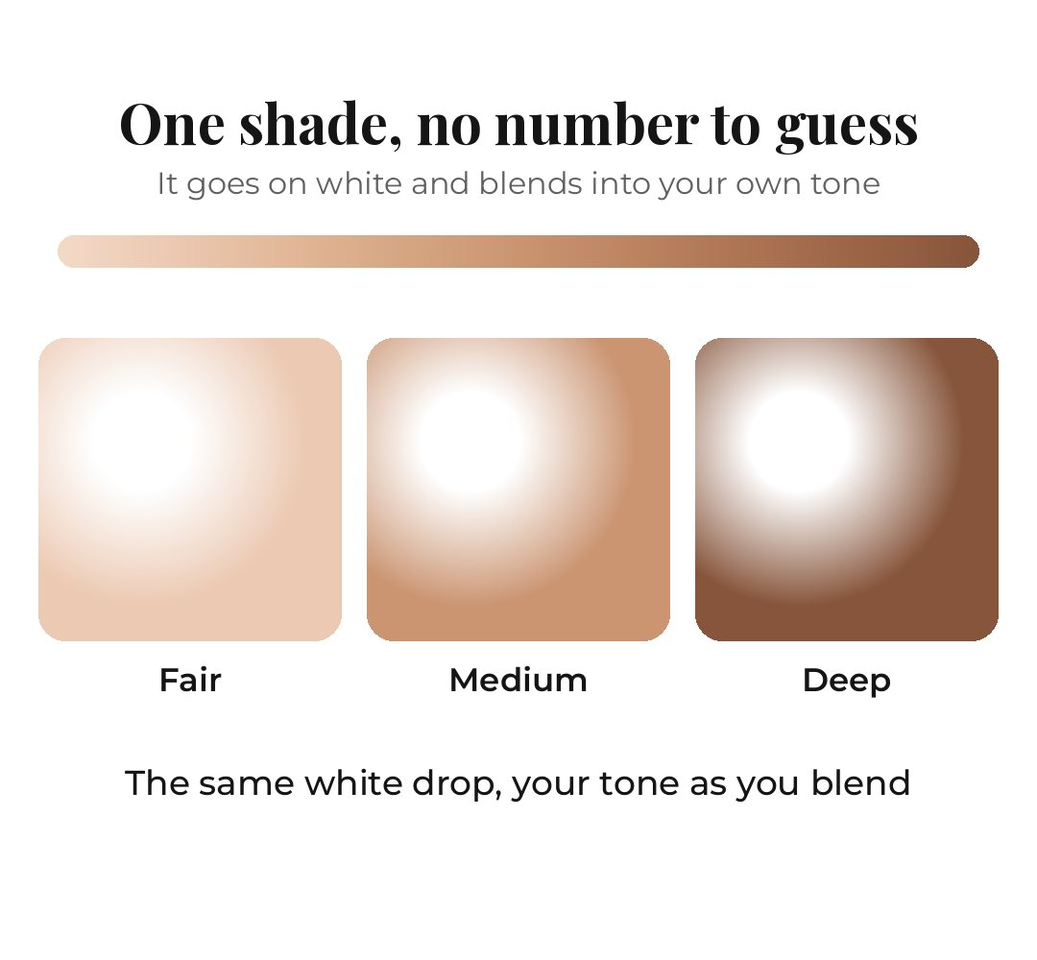
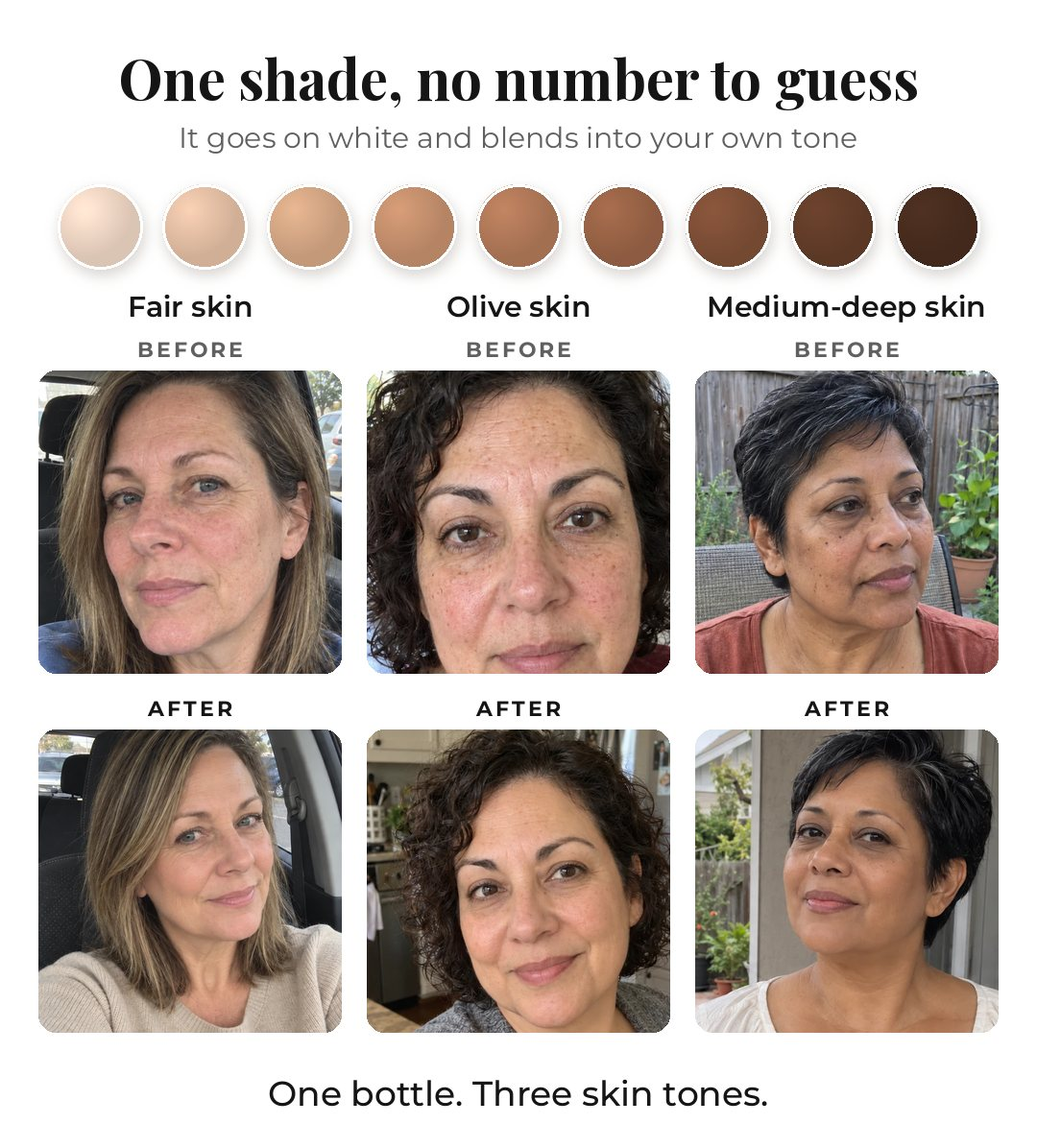
Sales page: the shade panel shows three women's before and after; each pair carries a buyer's review
one_shade(): a fair-to-deep swatch row, then the owner's three pairs (fair, olive, medium-deep) as Before over After,
square on the face (pair_halves() shared with split_pair, its output unchanged); the shade section moves up beside
the comparison so the same faces are not shown twice in a row. Each before/after card gets stars and a real
review from our earlier store by a buyer on the same concern, word for word, with her own photo and name.

Claude-Session: https://claude.ai/code/session_01DD3dpN8XTMfDVHXy9eWksc

diff --git a/skinofab-theme/templates/pages/page.adaptive-foundation-offer.html b/skinofab-theme/templates/pages/page.adaptive-foundation-offer.html
@@ -38,7 +38,7 @@
   <link rel="preload" as="image" href="{% endverbatim %}{{ 'sfa/sfa-wow-448847.jpg'|asset_url }}{% verbatim %}" fetchpriority="high">
   <link href="https://fonts.googleapis.com/css2?family=Jost:wght@400;500;600;700&family=Playfair+Display:ital,wght@0,600;0,700;1,600&display=swap" rel="stylesheet">
   <link rel="stylesheet" href="{% endverbatim %}{{ 'sfa/sfa-sf-funnel-cac564.css'|asset_url }}{% verbatim %}">
-  <link rel="stylesheet" href="{% endverbatim %}{{ 'sfa/sfa-sf-apf-1bb519.css'|asset_url }}{% verbatim %}">
+  <link rel="stylesheet" href="{% endverbatim %}{{ 'sfa/sfa-sf-apf-f8ff35.css'|asset_url }}{% verbatim %}">
   
 
   
@@ -245,6 +245,19 @@
   </section>
 
   
+  <section class="sf-sec sf-sec--cream" id="s11-shade">
+    <div class="sf-sec__in sf-two sf-two--top">
+      <img src="{% endverbatim %}{{ 'sfa/sfa-one-shade-f2b969.jpg'|asset_url }}{% verbatim %}" alt="One shade, no number to guess: a row of skin-tone swatches from fair to deep, then three women past 45 with fair, olive and medium-deep skin, each before (bare skin with spots, redness and uneven tone) and after (the foundation on, her tone even)" width="1080" height="1196" loading="lazy" decoding="async" class="sf-round sf-shade__img">
+      <div>
+        <p class="sf-eyebrow">The shade question</p>
+        <h2 class="sf-h2 sf-h2--big">“How do I pick my shade?” You don’t.</h2>
+        <ul class="sf-ticks sf-ticks--big"><li>It goes on white and shifts toward your own tone as you blend</li><li>Made for fair to deep skin: the same bottle at 45, 55 or 70</li><li>Very fair or very deep? A few women find it a little light or dark. That is exactly what the 30-day guarantee is for</li><li>Not sure? Email <a href="mailto:hello@skinofab.com?subject=Is%20it%20my%20shade%3F">hello@skinofab.com</a> before you order and we will tell you honestly</li></ul>
+        <div class="sf-guarantee"><span class="sf-guarantee__seal">30<br>DAYS</span><div><strong>30-day money-back guarantee</strong>Wear it in your own daylight for 30 days. Not your match? Email us for a full refund, even opened. You don’t send it back.</div></div>
+      </div>
+    </div>
+  </section>
+
+  
   <section class="sf-sec sf-sec--cream" id="s10-why">
     <div class="sf-sec__in">
       <p class="sf-eyebrow" style="text-align:center">Skincare inside</p>
@@ -273,29 +286,15 @@
   </section>
 
   
-  <section class="sf-sec sf-sec--cream" id="s11-shade">
-    <div class="sf-sec__in sf-two sf-two--top">
-      <img src="{% endverbatim %}{{ 'sfa/sfa-one-shade-961d0b.jpg'|asset_url }}{% verbatim %}" alt="A white drop of the foundation blending into three skin tones, fair, medium and deep, under a fair-to-deep tone bar" width="1080" height="1000" loading="lazy" decoding="async" class="sf-round sf-shade__img">
-      <div>
-        <p class="sf-eyebrow">The shade question</p>
-        <h2 class="sf-h2 sf-h2--big">“How do I pick my shade?” You don’t.</h2>
-        <ul class="sf-ticks sf-ticks--big"><li>It goes on white and shifts toward your own tone as you blend</li><li>Made for fair to deep skin: the same bottle at 45, 55 or 70</li><li>Very fair or very deep? A few women find it a little light or dark. That is exactly what the 30-day guarantee is for</li><li>Not sure? Email <a href="mailto:hello@skinofab.com?subject=Is%20it%20my%20shade%3F">hello@skinofab.com</a> before you order and we will tell you honestly</li></ul>
-        <div class="sf-guarantee"><span class="sf-guarantee__seal">30<br>DAYS</span><div><strong>30-day money-back guarantee</strong>Wear it in your own daylight for 30 days. Not your match? Email us for a full refund, even opened. You don’t send it back.</div></div>
-      </div>
-    </div>
-  </section>
-
-  
   <section class="sf-sec" id="s11-before-after">
     <p class="sf-eyebrow" style="text-align:center">Before and after</p>
     <h2 class="sf-h2 sf-h2--big" style="text-align:center">One bottle, three skin tones</h2>
     <p style="text-align:center;max-width:720px;margin:0 auto 18px">The one thing a foundation does: it evens the look of skin tone and softens the look of lines. Each face, its shape and its creases stay hers.</p>
-    <div class="sf-ba-grid sf-ba-grid--row"><figure><img src="{% endverbatim %}{{ 'sfa/sfa-ba-car-efe227.jpg'|asset_url }}{% verbatim %}" alt="A fair-skinned woman in her early fifties with shoulder-length hair, before and after: freckles, sun spots and redness on her bare skin, then the foundation on, her tone even and glowing" width="1080" height="900" loading="lazy" decoding="async"><figcaption>Fair skin: sun spots and redness evened, the same one shade.</figcaption></figure><figure><img src="{% endverbatim %}{{ 'sfa/sfa-ba-kitchen-bd764f.jpg'|asset_url }}{% verbatim %}" alt="A woman in her mid fifties with dark curly hair and olive skin, before and after: freckles, redness, uneven tone and lines on her bare skin, then the foundation on, her tone even and fresh" width="1080" height="900" loading="lazy" decoding="async"><figcaption>Olive skin: redness and uneven tone evened, lines softened, not erased.</figcaption></figure><figure><img src="{% endverbatim %}{{ 'sfa/sfa-ba-garden-e68269.jpg'|asset_url }}{% verbatim %}" alt="A woman in her late fifties with short dark hair and medium-deep skin, before and after: dark spots and uneven tone on her bare skin, then the foundation on, her tone even and luminous" width="1080" height="900" loading="lazy" decoding="async"><figcaption>Medium-deep skin: dark spots evened, still her own tone.</figcaption></figure></div>
+    <div class="sf-ba-grid sf-ba-grid--row"><figure class="sf-ba-card"><img src="{% endverbatim %}{{ 'sfa/sfa-ba-car-efe227.jpg'|asset_url }}{% verbatim %}" alt="A fair-skinned woman in her early fifties with shoulder-length hair, before and after: freckles, sun spots and redness on her bare skin, then the foundation on, her tone even and glowing" width="1080" height="900" loading="lazy" decoding="async"><figcaption>Fair skin: sun spots and redness evened, the same one shade.</figcaption><blockquote class="sf-ba-review"><p class="sf-ba-review__topic">A buyer on redness</p><span class="sf-tp__stars sf-tp__stars--xs" role="img" aria-label="5 out of 5 stars"><i></i><i></i><i></i><i></i><i></i></span><p class="sf-ba-review__text">“…blurs imperfections and cover redness, and it looks like skin, not something put on top!”</p><footer><img src="{% endverbatim %}{{ 'sfa/sfa-review-gillian-426815.jpg'|asset_url }}{% verbatim %}" alt="" width="36" height="36" loading="lazy" decoding="async"><cite><b>Gillian S., 65</b>verified buyer, from our earlier store</cite></footer></blockquote></figure><figure class="sf-ba-card"><img src="{% endverbatim %}{{ 'sfa/sfa-ba-kitchen-bd764f.jpg'|asset_url }}{% verbatim %}" alt="A woman in her mid fifties with dark curly hair and olive skin, before and after: freckles, redness, uneven tone and lines on her bare skin, then the foundation on, her tone even and fresh" width="1080" height="900" loading="lazy" decoding="async"><figcaption>Olive skin: redness and uneven tone evened, lines softened, not erased.</figcaption><blockquote class="sf-ba-review"><p class="sf-ba-review__topic">A buyer on uneven colour</p><span class="sf-tp__stars sf-tp__stars--xs" role="img" aria-label="5 out of 5 stars"><i></i><i></i><i></i><i></i><i></i></span><p class="sf-ba-review__text">“I’m 65 and my skin has uneven color. This product has evened out those places.”</p><footer><img src="{% endverbatim %}{{ 'sfa/sfa-review-lora-868ad7.jpg'|asset_url }}{% verbatim %}" alt="" width="36" height="36" loading="lazy" decoding="async"><cite><b>Lora Z., 65</b>verified buyer, from our earlier store</cite></footer></blockquote></figure><figure class="sf-ba-card"><img src="{% endverbatim %}{{ 'sfa/sfa-ba-garden-e68269.jpg'|asset_url }}{% verbatim %}" alt="A woman in her late fifties with short dark hair and medium-deep skin, before and after: dark spots and uneven tone on her bare skin, then the foundation on, her tone even and luminous" width="1080" height="900" loading="lazy" decoding="async"><figcaption>Medium-deep skin: dark spots evened, still her own tone.</figcaption><blockquote class="sf-ba-review"><p class="sf-ba-review__topic">A buyer on her match</p><span class="sf-tp__stars sf-tp__stars--xs" role="img" aria-label="5 out of 5 stars"><i></i><i></i><i></i><i></i><i></i></span><p class="sf-ba-review__text">“…colour matches to my skin tone, doesn’t oxidise as the day goes on… I frequently get told how nice my skin looks.”</p><footer><img src="{% endverbatim %}{{ 'sfa/sfa-review-judith-bd0852.jpg'|asset_url }}{% verbatim %}" alt="" width="36" height="36" loading="lazy" decoding="async"><cite><b>Judith L.</b>verified buyer, from our earlier store</cite></footer></blockquote></figure></div>
     <div class="sf-lifegrid">
       <div class="sf-life"><h3>Before this foundation</h3><ul><li>A shade that sits grey or orange on your cheeks</li><li>Concealer, then powder, then a touch-up by noon</li><li>Dry patches catching the foundation</li><li>“You can tell I’m wearing makeup”</li></ul></div>
       <div class="sf-life sf-life--after"><h3>After it</h3><ul><li>A colour that shifts toward your own tone as you blend</li><li>One pump, fingertips, about a minute</li><li>Dry skin kept comfortable by the serum base</li><li>“They just see me, rested”</li></ul></div>
     </div>
-    <blockquote class="sf-quote" style="margin-top:18px"><p>“I’m 65 and my skin has uneven color. This product has evened out those places. Also, it’s the perfect color match—never too light or orange! I’m very pleased!”</p><cite>Lora Z., 65, verified buyer, from our earlier store</cite></blockquote>
   </section>
 
   

diff --git a/campaigns/skinofab/src/apf-funnel/adaptive-foundation-offer.html b/campaigns/skinofab/src/apf-funnel/adaptive-foundation-offer.html
@@ -206,19 +206,17 @@ one_shade:
     - "Very fair or very deep? A few women find it a little light or dark. That is exactly what the 30-day guarantee is for"
     - "Not sure? Email <a href=\"mailto:hello@skinofab.com?subject=Is%20it%20my%20shade%3F\">hello@skinofab.com</a> before you order and we will tell you honestly"
   image: "images/sf/one-shade.jpg"
-  image_alt: "A white drop of the foundation blending into three skin tones, fair, medium and deep, under a fair-to-deep tone bar"
+  image_alt: "One shade, no number to guess: a row of skin-tone swatches from fair to deep, then three women past 45 with fair, olive and medium-deep skin, each before (bare skin with spots, redness and uneven tone) and after (the foundation on, her tone even)"
 before_after:
   eyebrow: "Before and after"
   title: "One bottle, three skin tones"
   lede: "The one thing a foundation does: it evens the look of skin tone and softens the look of lines. Each face, its shape and its creases stay hers."
   items:
-    - { image: "images/sf/ba-car.jpg", height: 900, alt: "A fair-skinned woman in her early fifties with shoulder-length hair, before and after: freckles, sun spots and redness on her bare skin, then the foundation on, her tone even and glowing", caption: "Fair skin: sun spots and redness evened, the same one shade." }
-    - { image: "images/sf/ba-kitchen.jpg", height: 900, alt: "A woman in her mid fifties with dark curly hair and olive skin, before and after: freckles, redness, uneven tone and lines on her bare skin, then the foundation on, her tone even and fresh", caption: "Olive skin: redness and uneven tone evened, lines softened, not erased." }
-    - { image: "images/sf/ba-garden.jpg", height: 900, alt: "A woman in her late fifties with short dark hair and medium-deep skin, before and after: dark spots and uneven tone on her bare skin, then the foundation on, her tone even and luminous", caption: "Medium-deep skin: dark spots evened, still her own tone." }
+    - { image: "images/sf/ba-car.jpg", height: 900, alt: "A fair-skinned woman in her early fifties with shoulder-length hair, before and after: freckles, sun spots and redness on her bare skin, then the foundation on, her tone even and glowing", caption: "Fair skin: sun spots and redness evened, the same one shade.", review: { topic: "A buyer on redness", name: "Gillian S., 65", photo: "images/sf/review-gillian.jpg", text: "…blurs imperfections and cover redness, and it looks like skin, not something put on top!" } }
+    - { image: "images/sf/ba-kitchen.jpg", height: 900, alt: "A woman in her mid fifties with dark curly hair and olive skin, before and after: freckles, redness, uneven tone and lines on her bare skin, then the foundation on, her tone even and fresh", caption: "Olive skin: redness and uneven tone evened, lines softened, not erased.", review: { topic: "A buyer on uneven colour", name: "Lora Z., 65", photo: "images/sf/review-lora.jpg", text: "I’m 65 and my skin has uneven color. This product has evened out those places." } }
+    - { image: "images/sf/ba-garden.jpg", height: 900, alt: "A woman in her late fifties with short dark hair and medium-deep skin, before and after: dark spots and uneven tone on her bare skin, then the foundation on, her tone even and luminous", caption: "Medium-deep skin: dark spots evened, still her own tone.", review: { topic: "A buyer on her match", name: "Judith L.", photo: "images/sf/review-judith.jpg", text: "…colour matches to my skin tone, doesn’t oxidise as the day goes on… I frequently get told how nice my skin looks." } }
   before: ["A shade that sits grey or orange on your cheeks", "Concealer, then powder, then a touch-up by noon", "Dry patches catching the foundation", "“You can tell I’m wearing makeup”"]
   after: ["A colour that shifts toward your own tone as you blend", "One pump, fingertips, about a minute", "Dry skin kept comfortable by the serum base", "“They just see me, rested”"]
-  quote: "I’m 65 and my skin has uneven color. This product has evened out those places. Also, it’s the perfect color match—never too light or orange! I’m very pleased!"
-  quote_by: "Lora Z., 65, verified buyer, from our earlier store"
 proof:
   eyebrow: "Why you can trust it"
   title: "Nothing to take on faith: the label, the reviews, the guarantee."
@@ -496,6 +494,19 @@ closing:
     </ul>
   </section>
 
+  {% comment %} 11a: the shade question, answered in one picture {% endcomment %}
+  <section class="sf-sec sf-sec--cream" id="s11-shade">
+    <div class="sf-sec__in sf-two sf-two--top">
+      <img src="{{ one_shade.image | campaign_asset }}" alt="{{ one_shade.image_alt }}" width="1080" height="1196" loading="lazy" decoding="async" class="sf-round sf-shade__img">
+      <div>
+        <p class="sf-eyebrow">{{ one_shade.eyebrow }}</p>
+        <h2 class="sf-h2 sf-h2--big">{{ one_shade.title }}</h2>
+        <ul class="sf-ticks sf-ticks--big">{% for b in one_shade.bullets %}<li>{{ b }}</li>{% endfor %}</ul>
+        <div class="sf-guarantee"><span class="sf-guarantee__seal">30<br>DAYS</span><div><strong>{{ guarantee.title }}</strong>{{ guarantee.short }}</div></div>
+      </div>
+    </div>
+  </section>
+
   {% comment %} 10: the skincare inside: PDRN and the rest, one by one; the complaints we answered {% endcomment %}
   <section class="sf-sec sf-sec--cream" id="s10-why">
     <div class="sf-sec__in">
@@ -524,30 +535,16 @@ closing:
     </div>
   </section>
 
-  {% comment %} 11a: the shade question, answered in one picture {% endcomment %}
-  <section class="sf-sec sf-sec--cream" id="s11-shade">
-    <div class="sf-sec__in sf-two sf-two--top">
-      <img src="{{ one_shade.image | campaign_asset }}" alt="{{ one_shade.image_alt }}" width="1080" height="1000" loading="lazy" decoding="async" class="sf-round sf-shade__img">
-      <div>
-        <p class="sf-eyebrow">{{ one_shade.eyebrow }}</p>
-        <h2 class="sf-h2 sf-h2--big">{{ one_shade.title }}</h2>
-        <ul class="sf-ticks sf-ticks--big">{% for b in one_shade.bullets %}<li>{{ b }}</li>{% endfor %}</ul>
-        <div class="sf-guarantee"><span class="sf-guarantee__seal">30<br>DAYS</span><div><strong>{{ guarantee.title }}</strong>{{ guarantee.short }}</div></div>
-      </div>
-    </div>
-  </section>
-
   {% comment %} 11b: before and after, and the life around it {% endcomment %}
   <section class="sf-sec" id="s11-before-after">
     <p class="sf-eyebrow" style="text-align:center">{{ before_after.eyebrow }}</p>
     <h2 class="sf-h2 sf-h2--big" style="text-align:center">{{ before_after.title }}</h2>
     <p style="text-align:center;max-width:720px;margin:0 auto 18px">{{ before_after.lede }}</p>
-    <div class="sf-ba-grid {% if before_after.items.size > 1 %}sf-ba-grid--row{% else %}sf-ba-grid--one{% endif %}">{% for b in before_after.items %}<figure><img src="{{ b.image | campaign_asset }}" alt="{{ b.alt }}" width="1080" height="{{ b.height | default: 1080 }}" loading="lazy" decoding="async"><figcaption>{{ b.caption }}</figcaption></figure>{% endfor %}</div>
+    <div class="sf-ba-grid {% if before_after.items.size > 1 %}sf-ba-grid--row{% else %}sf-ba-grid--one{% endif %}">{% for b in before_after.items %}<figure class="sf-ba-card"><img src="{{ b.image | campaign_asset }}" alt="{{ b.alt }}" width="1080" height="{{ b.height | default: 1080 }}" loading="lazy" decoding="async"><figcaption>{{ b.caption }}</figcaption>{% if b.review %}<blockquote class="sf-ba-review"><p class="sf-ba-review__topic">{{ b.review.topic }}</p><span class="sf-tp__stars sf-tp__stars--xs" role="img" aria-label="5 out of 5 stars"><i></i><i></i><i></i><i></i><i></i></span><p class="sf-ba-review__text">“{{ b.review.text }}”</p><footer><img src="{{ b.review.photo | campaign_asset }}" alt="" width="36" height="36" loading="lazy" decoding="async"><cite><b>{{ b.review.name }}</b>verified buyer, from our earlier store</cite></footer></blockquote>{% endif %}</figure>{% endfor %}</div>
     <div class="sf-lifegrid">
       <div class="sf-life"><h3>Before this foundation</h3><ul>{% for l in before_after.before %}<li>{{ l }}</li>{% endfor %}</ul></div>
       <div class="sf-life sf-life--after"><h3>After it</h3><ul>{% for l in before_after.after %}<li>{{ l }}</li>{% endfor %}</ul></div>
     </div>
-    <blockquote class="sf-quote" style="margin-top:18px"><p>“{{ before_after.quote }}”</p><cite>{{ before_after.quote_by }}</cite></blockquote>
   </section>
 
   {% comment %} 13: the dream outcome: the mirror tomorrow, the photo on Saturday {% endcomment %}

diff --git a/campaigns/skinofab/src/apf-funnel/assets/css/sf-apf.css b/campaigns/skinofab/src/apf-funnel/assets/css/sf-apf.css
@@ -293,6 +293,19 @@
 .sf-ticks--big li { font-size: 17px; margin-bottom: 10px; }
 .sf-ticks--big a { text-decoration: underline; }
 .sf-shade__img { width: 100%; max-width: 520px; justify-self: center; }
+/* each before/after with a short review from a buyer on the same concern, her own photo beside her name (the owner's
+   ask, 29 Oct 2026: a mini testimonial for each) */
+.sf-ba-card { display: flex; flex-direction: column; background: #fff; border: 1px solid var(--line); border-radius: 14px; padding: 10px 10px 14px; }
+.sf-ba-card figcaption { margin: 8px 4px 0 !important; font-size: 13.5px !important; }
+.sf-ba-review { margin: 12px 4px 0; padding: 12px 0 0; border-top: 1px solid var(--line); }
+.sf-ba-review__topic { margin: 0 0 6px !important; font-size: 11.5px; font-weight: 700; letter-spacing: .1em; text-transform: uppercase; color: var(--soft); }
+.sf-tp__stars--xs i { width: 18px; height: 18px; border-radius: 2px; }
+.sf-tp__stars--xs i::before { font-size: 13px; }
+.sf-ba-review__text { margin: 8px 0 10px !important; font-size: 15px; line-height: 1.45; color: var(--ink); }
+.sf-ba-review footer { display: flex; align-items: center; gap: 10px; }
+.sf-ba-review footer img { width: 36px; height: 36px; border-radius: 50%; object-fit: cover; flex: none; }
+.sf-ba-review cite { font-style: normal; font-size: 12.5px; line-height: 1.3; color: var(--soft); }
+.sf-ba-review cite b { display: block; color: var(--ink); font-size: 14px; }
 .sf-ba-grid--one { max-width: 760px; margin: 0 auto; grid-template-columns: 1fr !important; }
 /* three women side by side from 900 px (each pair is one picture, its Before / After drawn on it: below 900 px three
    across would set those words at 9-11 px); stacked below, no wider than 560 px so a tablet shows faces, not walls */

diff --git a/skinofab-theme/assets/sfa/sfa-sf-apf-f8ff35.css b/skinofab-theme/assets/sfa/sfa-sf-apf-f8ff35.css
@@ -293,6 +293,19 @@
 .sf-ticks--big li { font-size: 17px; margin-bottom: 10px; }
 .sf-ticks--big a { text-decoration: underline; }
 .sf-shade__img { width: 100%; max-width: 520px; justify-self: center; }
+/* each before/after with a short review from a buyer on the same concern, her own photo beside her name (the owner's
+   ask, 29 Oct 2026: a mini testimonial for each) */
+.sf-ba-card { display: flex; flex-direction: column; background: #fff; border: 1px solid var(--line); border-radius: 14px; padding: 10px 10px 14px; }
+.sf-ba-card figcaption { margin: 8px 4px 0 !important; font-size: 13.5px !important; }
+.sf-ba-review { margin: 12px 4px 0; padding: 12px 0 0; border-top: 1px solid var(--line); }
+.sf-ba-review__topic { margin: 0 0 6px !important; font-size: 11.5px; font-weight: 700; letter-spacing: .1em; text-transform: uppercase; color: var(--soft); }
+.sf-tp__stars--xs i { width: 18px; height: 18px; border-radius: 2px; }
+.sf-tp__stars--xs i::before { font-size: 13px; }
+.sf-ba-review__text { margin: 8px 0 10px !important; font-size: 15px; line-height: 1.45; color: var(--ink); }
+.sf-ba-review footer { display: flex; align-items: center; gap: 10px; }
+.sf-ba-review footer img { width: 36px; height: 36px; border-radius: 50%; object-fit: cover; flex: none; }
+.sf-ba-review cite { font-style: normal; font-size: 12.5px; line-height: 1.3; color: var(--soft); }
+.sf-ba-review cite b { display: block; color: var(--ink); font-size: 14px; }
 .sf-ba-grid--one { max-width: 760px; margin: 0 auto; grid-template-columns: 1fr !important; }
 /* three women side by side from 900 px (each pair is one picture, its Before / After drawn on it: below 900 px three
    across would set those words at 9-11 px); stacked below, no wider than 560 px so a tablet shows faces, not walls */

diff --git a/skinofab-theme/templates/pages/page.10-reasons-adaptive-foundation.html b/skinofab-theme/templates/pages/page.10-reasons-adaptive-foundation.html
@@ -38,7 +38,7 @@
   <link rel="preload" as="image" href="{% endverbatim %}{{ 'sfa/sfa-hero-m-5816ab.jpg'|asset_url }}{% verbatim %}" media="(max-width: 599px)" fetchpriority="high"><link rel="preload" as="image" href="{% endverbatim %}{{ 'sfa/sfa-hero-c3926a.jpg'|asset_url }}{% verbatim %}" media="(min-width: 600px)" fetchpriority="high">
   <link href="https://fonts.googleapis.com/css2?family=Jost:wght@400;500;600;700&family=Playfair+Display:ital,wght@0,600;0,700;1,600&display=swap" rel="stylesheet">
   <link rel="stylesheet" href="{% endverbatim %}{{ 'sfa/sfa-sf-funnel-cac564.css'|asset_url }}{% verbatim %}">
-  <link rel="stylesheet" href="{% endverbatim %}{{ 'sfa/sfa-sf-apf-1bb519.css'|asset_url }}{% verbatim %}">
+  <link rel="stylesheet" href="{% endverbatim %}{{ 'sfa/sfa-sf-apf-f8ff35.css'|asset_url }}{% verbatim %}">
   
 
   

diff --git a/tools/funnel/apf/images.py b/tools/funnel/apf/images.py
@@ -167,42 +167,57 @@ def ground(im, strength=1.0):
 
 
 def one_shade():
-    """The shade objection answered in one picture (the owner's ask, 28 Oct 2026, after a competitor's "16 skin
-    tones" panel): a white drop of the foundation blending into a fair, a medium and a deep skin tone under a
-    fair-to-deep tone bar. No faces (the persona photos' filtered "afters" showed no difference, live review 2; the
-    real pairs wait for image credit), no count of tones (the claims rules), the illustration line in full."""
-    W, H = 1080, 1000
+    """The shade question in one picture (the owner's reference, 29 Oct 2026: a competitor's swatch row over three
+    women's before and after): a fair-to-deep swatch row, then the owner's three pairs (owner/ba-*.webp: fair, olive
+    and medium-deep skin, past 45) as Before over After, square on the face, each column named by its skin. No count
+    of tones (the claims rules), no disclaimer line (the owner's instruction, 28 Oct 2026)."""
+    W, H = 1080, 1196
     im = Image.new('RGB', (W, H), PAPER)
     d = ImageDraw.Draw(im)
-    d.text((W // 2, 150), 'One shade, no number to guess', font=P.serif(58, 'Bold'), fill=INK, anchor='ms')
-    d.text((W // 2, 202), 'It goes on white and blends into your own tone', font=P.sans(32, 'Regular'), fill=SOFT, anchor='ms')
-    x0b, x1b, bh, cy = 60, W - 60, 34, 262
-    tones = [tuple(int(c[i:i + 2], 16) for i in (1, 3, 5)) for c in P.SKIN_TONES[:9]]   # fair to deep, as the words say
-    xs = np.linspace(0, len(tones) - 1, x1b - x0b)
-    lo = np.floor(xs).astype(int).clip(0, len(tones) - 2); f = (xs - lo)[:, None]
-    row = (np.array(tones)[lo] * (1 - f) + np.array(tones)[lo + 1] * f).astype(np.uint8)
-    bar = Image.fromarray(np.repeat(row[None], bh, 0), 'RGB')
-    mask = Image.new('L', bar.size, 0); ImageDraw.Draw(mask).rounded_rectangle((0, 0, bar.width - 1, bh - 1), bh // 2, fill=255)
-    im.paste(bar, (x0b, cy - bh // 2), mask)
-    cw, g, ph = 316, 26, 316
-    x0, y0 = (W - 3 * cw - 2 * g) // 2, cy + 90
-    yy, xx = np.mgrid[0:ph, 0:cw].astype(np.float32)
-    for k, (tone, word) in enumerate(((tones[1], 'Fair'), (tones[4], 'Medium'), (tones[8], 'Deep'))):
-        # the tone as a swatch; a white drop at the top left fading into it, as the foundation does as it is blended
-        dist = np.sqrt((xx - cw * 0.34) ** 2 + (yy - ph * 0.34) ** 2)
-        t = np.clip((dist - 52) / 120, 0, 1)[..., None]
-        px = (np.array([255, 255, 255], dtype=np.float32) * (1 - t) + np.array(tone, dtype=np.float32) * t).astype(np.uint8)
-        swatch = Image.fromarray(px, 'RGB')
-        m = Image.new('L', (cw, ph), 0); ImageDraw.Draw(m).rounded_rectangle((0, 0, cw - 1, ph - 1), 28, fill=255)
-        x = x0 + k * (cw + g)
-        im.paste(swatch, (x, y0), m)
-        d.text((x + cw // 2, y0 + ph + 52), word, font=P.sans(34, 'SemiBold'), fill=INK, anchor='ms')
-    d.text((W // 2, y0 + ph + 160), 'The same white drop, your tone as you blend', font=P.sans(36, 'Medium'), fill=INK, anchor='ms')
-    # the fair-to-deep sentence is the panel's own bullets (in the page's HTML, readable at any width: at 390 the 22 px line was 9 px, live review 3)
-    save(im, 'one-shade', size=1080)
-
-
-GEN = APF / 'gen'                    # the v2 sources (GPT Image 2 through 4SToken, 28 Oct 2026; gen/README.md has the prompts)
+    d.text((W // 2, 104), 'One shade, no number to guess', font=P.serif(58, 'Bold'), fill=INK, anchor='ms')
+    d.text((W // 2, 154), 'It goes on white and blends into your own tone', font=P.sans(30, 'Regular'), fill=SOFT, anchor='ms')
+    # nine swatches, fair to deep, each a soft dome with a white rim and a contact shadow
+    tones = np.array([[int(c[i:i + 2], 16) for i in (1, 3, 5)] for c in P.SKIN_TONES], dtype=np.float32)
+    n, r, gap = 9, 44, 21
+    xs = np.linspace(0, len(tones) - 1, n)
+    x0, cy, K = (W - (n * 2 * r + (n - 1) * gap)) // 2, 236, 4
+    shadow = Image.new('L', (W, H), 0); sd = ImageDraw.Draw(shadow)
+    for k in range(n): cx = x0 + r + k * (2 * r + gap); sd.ellipse((cx - r + 2, cy - r + 6, cx + r + 2, cy + r + 6), fill=70)
+    im.paste(Image.new('RGB', (W, H), (110, 96, 84)), (0, 0), shadow.filter(ImageFilter.GaussianBlur(7)))
+    yy, xx = np.mgrid[0:2 * r * K, 0:2 * r * K].astype(np.float32) / K - r
+    lit = np.clip(1.08 - 0.16 * np.hypot(xx + r * 0.35, yy + r * 0.4) / r, 0.9, 1.08)[..., None]   # light from the top left
+    for k, f in enumerate(xs):
+        lo_ = min(int(f), len(tones) - 2); c = tones[lo_] * (1 - (f - lo_)) + tones[lo_ + 1] * (f - lo_)
+        dome = Image.fromarray(np.clip(c * lit, 0, 255).astype(np.uint8), 'RGB').resize((2 * r, 2 * r), Image.LANCZOS)
+        m = Image.new('L', (2 * r * K, 2 * r * K), 0); ImageDraw.Draw(m).ellipse((0, 0, 2 * r * K - 1, 2 * r * K - 1), fill=255)
+        cx = x0 + r + k * (2 * r + gap)
+        im.paste(dome, (cx - r, cy - r), m.resize((2 * r, 2 * r), Image.LANCZOS))
+        d.ellipse((cx - r, cy - r, cx + r, cy + r), outline=PAPER, width=3)
+    # the three women: Before over After, square on the face
+    # (key, her skin, where her face sits, how far to zoom the after: the garden after is the wider shot)
+    cols = (('car', 'Fair skin', (0.5, 0.22), 1.0), ('kitchen', 'Olive skin', (0.5, 0.2), 1.0), ('garden', 'Medium-deep skin', (0.5, 0.22), 1.45))
+    cw, g2 = 316, 26
+    cx0, top = (W - 3 * cw - 2 * g2) // 2, 330
+    def spaced(x, y, text, font, fill):
+        w = sum(font.getlength(ch) for ch in text) + 3 * (len(text) - 1)
+        x -= w / 2
+        for ch in text: d.text((x, y), ch, font=font, fill=fill, anchor='ls'); x += font.getlength(ch) + 3
+    lab = P.sans(22, 'Bold')
+    for k, (key, word, centering, zoom) in enumerate(cols):
+        before, after = pair_halves(Image.open(OWNER / f'ba-{key}.webp'))
+        x = cx0 + k * (cw + g2)
+        d.text((x + cw // 2, top), word, font=P.sans(30, 'SemiBold'), fill=INK, anchor='ms')
+        if zoom > 1:
+            aw, ah = after.size; zw, zh = int(aw / zoom), int(ah / zoom)
+            after = after.crop(((aw - zw) // 2, int((ah - zh) * 0.12), (aw - zw) // 2 + zw, int((ah - zh) * 0.12) + zh))
+        for row, (half, name) in enumerate(((before, 'BEFORE'), (after, 'AFTER'))):
+            y = top + 42 + row * (cw + 58)
+            spaced(x + cw // 2, y, name, lab, SOFT if row == 0 else INK)
+            ph = ImageOps.fit(half, (cw, cw), Image.LANCZOS, centering=centering)
+            m = Image.new('L', (cw, cw), 0); ImageDraw.Draw(m).rounded_rectangle((0, 0, cw - 1, cw - 1), 18, fill=255)
+            im.paste(ph, (x, y + 14), m)
+    d.text((W // 2, H - 44), 'One bottle. Three skin tones.', font=P.sans(36, 'Medium'), fill=INK, anchor='ms')
+    save(im, 'one-shade', size=1196)
 
 
 def _encode(frames, key, fps=25):
@@ -316,21 +331,27 @@ def allday_clip(encode=True, fps=25, seconds=6.0):
     print('allday clip', n, 'frames')
 
 
+def pair_halves(im):
+    """A before/after made as one frame (the same woman twice, a white bar between): its two halves, cut either side of
+    the whole white bar (the brightest column near the middle and every column around it above 235)."""
+    im = im.convert('RGB')
+    w, h = im.size
+    g = np.asarray(im.convert('L'), dtype=np.float32).mean(axis=0)
+    lo, hi = int(w * 0.45), int(w * 0.55)
+    mid = lo + int(np.argmax(g[lo:hi]))
+    left, right = mid, mid
+    while left > lo and g[left - 1] > 235: left -= 1
+    while right < hi and g[right + 1] > 235: right += 1
+    return im.crop((0, 0, left - 4, h)), im.crop((right + 5, 0, w, h))
+
+
 def split_pair(key, out, size=1080, height=900, band=100, src=None, centering=(0.5, 0.35)):
     """A generated split portrait (gen/ba-split-<key>.png: the same woman twice in one frame, her bare skin with its
     lines, spots and redness on the left, the foundation on with an even, luminous tone on the right, a white line
     between) laid out as the pages' before/after: each half fitted to its column (no upscaling at 1376 px wide),
     Before / After in ink on a white band at the foot, a white line between the halves (no disclaimer line: the owner's
     instruction, 28 Oct 2026)."""
-    im = Image.open(src or GEN / f'ba-split-{key}.png').convert('RGB')
-    w, h = im.size
-    g = np.asarray(im.convert('L'), dtype=np.float32).mean(axis=0)       # the divider: the brightest column near the middle
-    lo, hi = int(w * 0.45), int(w * 0.55)
-    mid = lo + int(np.argmax(g[lo:hi]))
-    left, right = mid, mid                                                # and the whole white bar around it
-    while left > lo and g[left - 1] > 235: left -= 1
-    while right < hi and g[right + 1] > 235: right += 1
-    halves = (im.crop((0, 0, left - 4, h)), im.crop((right + 5, 0, w, h)))
+    halves = pair_halves(Image.open(src or GEN / f'ba-split-{key}.png'))
     col_w, col_h = size // 2, height - band
     out_im = Image.new('RGB', (size, height), PAPER)
     for j, half in enumerate(halves):

diff --git a/tools/funnel/apf/copy_deck.py b/tools/funnel/apf/copy_deck.py
@@ -86,7 +86,7 @@ def deck(fm):
         *sum([[f"> “{x['quote']}”" + (f" — {x['source']}" if x['source'] else ''), x['fix']] for x in w['fixes']], []))
     sec('11 · Include Before and After Scenarios', f"### {ba['title']}", ba['lede'],
         *sum([[f"[IMAGE: {i['image']} — {i['alt']}]", f"*{i['caption']}*"] for i in ba['items']], []),
-        f"[BEFORE: {'; '.join(ba['before'])}]", f"[AFTER: {'; '.join(ba['after'])}]", f"> “{ba['quote']}” — {ba['quote_by']}", *([f"*{ba['label']}*"] if ba.get('label') else []))   # no label since 28 Oct 2026 (the owner: no illustration line)
+        f"[BEFORE: {'; '.join(ba['before'])}]", f"[AFTER: {'; '.join(ba['after'])}]", *[f"> “{b['review']['text']}” — {b['review']['name']}, verified buyer, from our earlier store ({b['review']['topic'].lower()})" for b in ba['items'] if b.get('review')], *([f"*{ba['label']}*"] if ba.get('label') else []))   # no label since 28 Oct 2026 (the owner: no illustration line)
     r = fm['ratings']
     sec('12 · Proof Elements', f"### {pr['title']}", f"[RATING: {r['average']} | {r['count']} verified reviews of this foundation, from our earlier store]",
         *sum([[f"#### {x['title']}", x['text']] for x in pr['cards']], []), *[f"> “{q['text']}” — {q['by']}" for q in pr['quotes']])

diff --git a/docs/apf-funnel/copy-deck.md b/docs/apf-funnel/copy-deck.md
@@ -222,7 +222,11 @@ The one thing a foundation does: it evens the look of skin tone and softens the 
 
 [AFTER: A colour that shifts toward your own tone as you blend; One pump, fingertips, about a minute; Dry skin kept comfortable by the serum base; “They just see me, rested”]
 
-> “I’m 65 and my skin has uneven color. This product has evened out those places. Also, it’s the perfect color match—never too light or orange! I’m very pleased!” — Lora Z., 65, verified buyer, from our earlier store
+> “…blurs imperfections and cover redness, and it looks like skin, not something put on top!” — Gillian S., 65, verified buyer, from our earlier store (a buyer on redness)
+
+> “I’m 65 and my skin has uneven color. This product has evened out those places.” — Lora Z., 65, verified buyer, from our earlier store (a buyer on uneven colour)
+
+> “…colour matches to my skin tone, doesn’t oxidise as the day goes on… I frequently get told how nice my skin looks.” — Judith L., verified buyer, from our earlier store (a buyer on her match)
 
 ## 12 · Proof Elements
 
